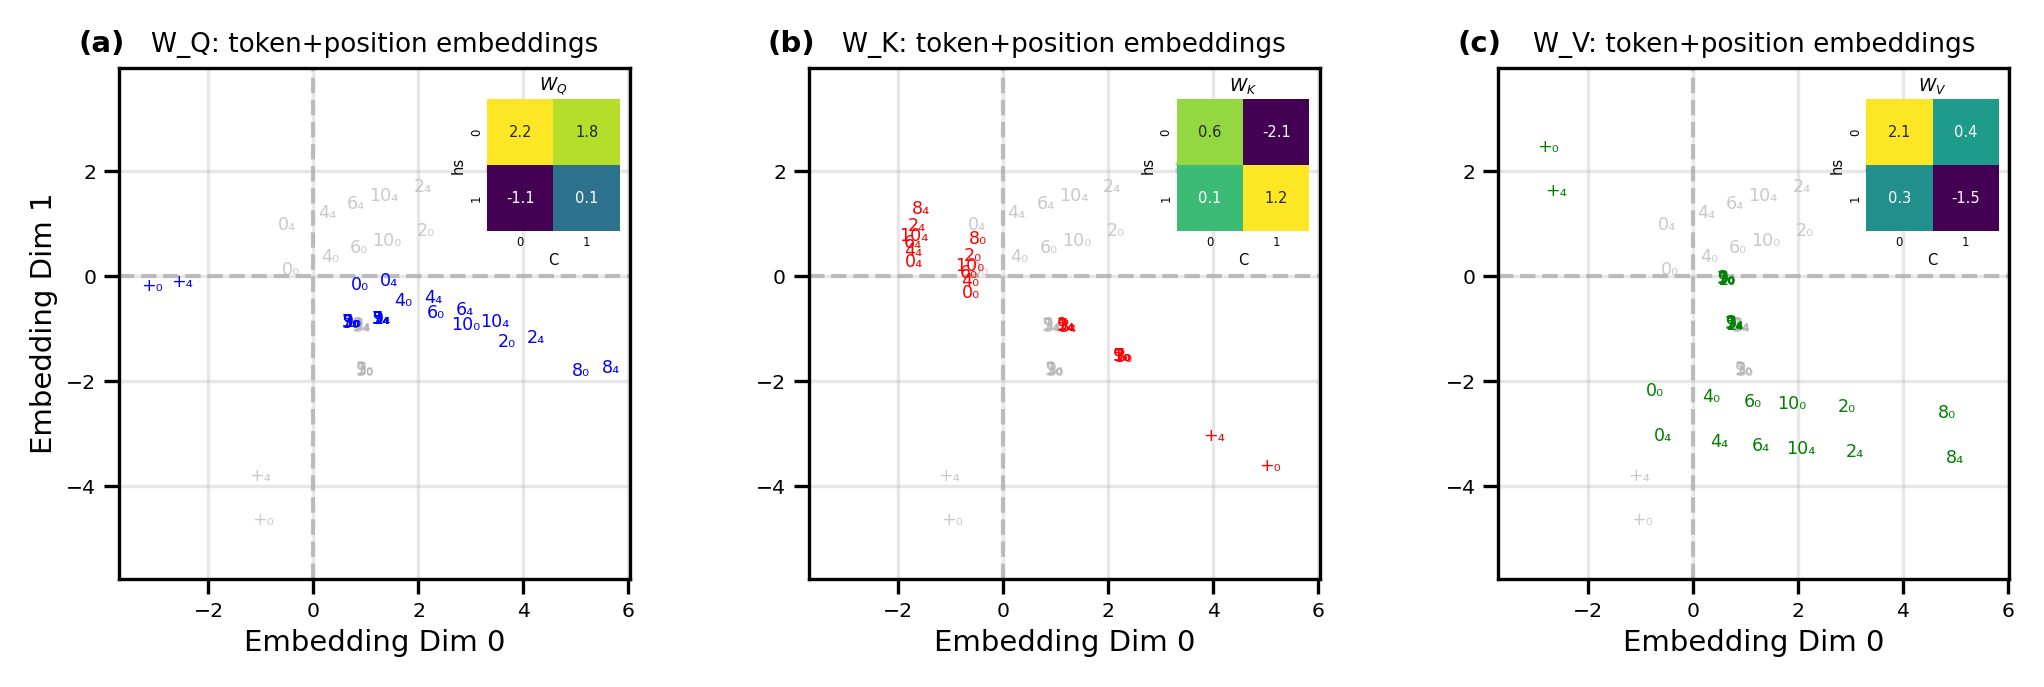
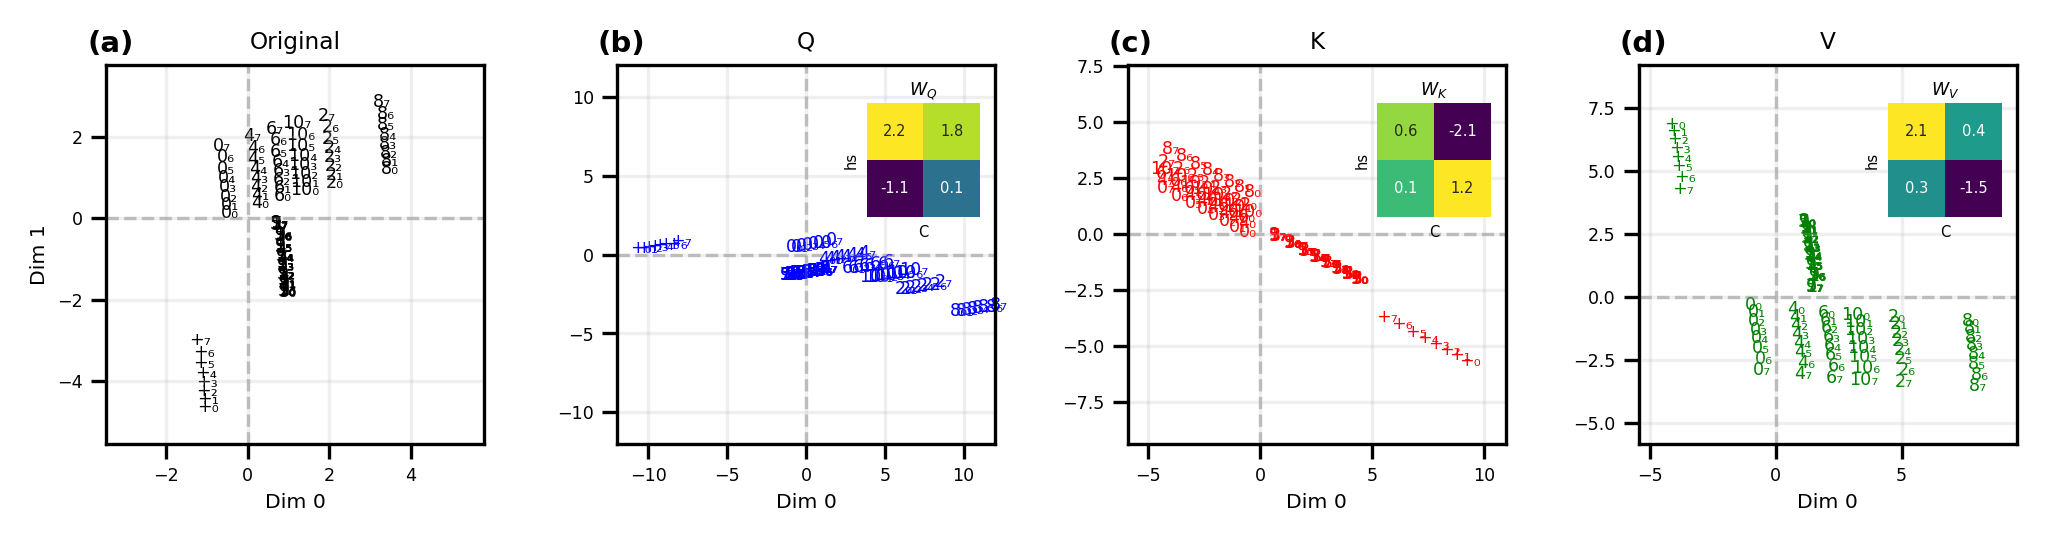
fig 8

diff --git a/plotting/plots.py b/plotting/plots.py
@@ -2426,89 +2426,73 @@ def plot_qkv_transformations(model, itos, save_path=None):
         ax.set_ylim(np.clip(ymin - ym, -max_range, max_range), np.clip(ymax + ym, -max_range, max_range))
     
     # Create figure
-    # Journal: 1 row × 3 cols — each panel = same original embeddings (embedding space), gray annotations; weight as inset
-    # Standard: 2 rows × 4 cols (original layout with Tok+Pos in row 0 col 0, then weights + Q,K,V)
+    # Journal: 1 row × 4 cols — (a) original embeddings, (b) Q, (c) K, (d) V; weight as inset in b/c/d
+    # Standard: 2 rows × 4 cols (original layout)
     if _JOURNAL_MODE:
-        fig = plt.figure(figsize=(7.0, 3.2))
-        gs = GridSpec(1, 3, figure=fig, wspace=0.35, left=0.07, right=0.97, top=0.88, bottom=0.14)
+        fig = plt.figure(figsize=(7.0, 3.6))
+        gs = GridSpec(1, 4, figure=fig, wspace=0.35, left=0.06, right=0.97, top=0.88, bottom=0.14)
     else:
         fig = plt.figure(figsize=(20, 10))
         gs = GridSpec(2, 4, figure=fig, hspace=0.35, wspace=0.3)
     
     _lbl_fs = 6 if _JOURNAL_MODE else 9
-    _step = 4 if _JOURNAL_MODE and num_combinations > 48 else 1
-    _step_1d = _step
     _pe = [pe.withStroke(linewidth=2, foreground='white')] if _JOURNAL_MODE else []
     _panel_fs = 10 if _JOURNAL_MODE else 12
     x_labels = list(range(n_embd))
     y_labels_local = list(range(head_size))
 
-    # Journal: single row of 3 panels; each has (1) SAME original embeddings in light gray (identical), (2) Q/K/V in blue/red/green
+    # Journal: 4 panels — original + Q + K + V, each in own space; weight inset in Q/K/V
     if _JOURNAL_MODE and n_embd >= 2 and head_size >= 2:
         X_orig = all_combinations[:, [0, 1]]
         Q_2d = Q_transformed[:, [0, 1]]
         K_2d = K_transformed[:, [0, 1]]
         V_2d = V_transformed[:, [0, 1]]
-        _emb_lo = X_orig.min(axis=0) - 0.15 * (X_orig.max(axis=0) - X_orig.min(axis=0))
-        _emb_hi = X_orig.max(axis=0) + 0.15 * (X_orig.max(axis=0) - X_orig.min(axis=0))
-        # Make limits square so panels are square with equal aspect
-        _cx = 0.5 * (_emb_lo[0] + _emb_hi[0])
-        _cy = 0.5 * (_emb_lo[1] + _emb_hi[1])
-        _half = 0.5 * max(_emb_hi[0] - _emb_lo[0], _emb_hi[1] - _emb_lo[1])
-        _xlo_emb, _xhi_emb = np.clip(_cx - _half, -8, 8), np.clip(_cx + _half, -8, 8)
-        _ylo_emb, _yhi_emb = np.clip(_cy - _half, -8, 8), np.clip(_cy + _half, -8, 8)
         _m = 0.12
-        def _lims(arr):
-            x, y = arr[:, 0], arr[:, 1]
-            s0, s1 = max(x.max() - x.min(), 0.5), max(y.max() - y.min(), 0.5)
-            return (np.clip(x.min() - _m * s0, -12, 12), np.clip(x.max() + _m * s0, -12, 12),
-                    np.clip(y.min() - _m * s1, -12, 12), np.clip(y.max() + _m * s1, -12, 12))
-        for col, (W, ttl_short, panel_label, ann_color, xyz_2d) in enumerate([
-            (W_Q, "W_Q", "(a)", "blue", Q_2d),
-            (W_K, "W_K", "(b)", "red", K_2d),
-            (W_V, "W_V", "(c)", "green", V_2d),
-        ]):
+        def _sq_lims(arr, max_r=12):
+            lo = arr.min(axis=0) - _m * np.maximum(arr.max(axis=0) - arr.min(axis=0), 0.5)
+            hi = arr.max(axis=0) + _m * np.maximum(arr.max(axis=0) - arr.min(axis=0), 0.5)
+            cx = 0.5 * (lo[0] + hi[0])
+            cy = 0.5 * (lo[1] + hi[1])
+            half = 0.5 * max(hi[0] - lo[0], hi[1] - lo[1])
+            return (np.clip(cx - half, -max_r, max_r), np.clip(cx + half, -max_r, max_r),
+                    np.clip(cy - half, -max_r, max_r), np.clip(cy + half, -max_r, max_r))
+        _panels = [
+            (None, "Original", "(a)", "black", X_orig),
+            (W_Q, "Q", "(b)", "blue", Q_2d),
+            (W_K, "K", "(c)", "red", K_2d),
+            (W_V, "V", "(d)", "green", V_2d),
+        ]
+        for col, (W, ttl, panel_label, ann_color, pts) in enumerate(_panels):
             ax = fig.add_subplot(gs[0, col])
-            ax.set_xlim(_xlo_emb, _xhi_emb)
-            ax.set_ylim(_ylo_emb, _yhi_emb)
+            xl, xr, yl, yr = _sq_lims(pts, max_r=8 if W is None else 12)
+            ax.set_xlim(xl, xr)
+            ax.set_ylim(yl, yr)
             ax.set_aspect('equal', adjustable='box')
-            ax.set_xlabel("Embedding Dim 0")
-            ax.set_ylabel("Embedding Dim 1" if col == 0 else "")
-            ax.axhline(y=0, color='gray', linestyle='--', linewidth=1, alpha=0.5, zorder=0)
-            ax.axvline(x=0, color='gray', linestyle='--', linewidth=1, alpha=0.5, zorder=0)
-            ax.grid(True, alpha=0.3)
-            ax.set_title(f"{ttl_short}: token+position embeddings", fontsize=9)
-            ax.tick_params(axis='both', labelsize=7)
-            ax.text(-0.08, 1.02, panel_label, transform=ax.transAxes, fontsize=_panel_fs, fontweight='bold', va='bottom')
-            # Layer 1: original token+position embeddings — light gray, identical on all three panels
-            for i in range(0, len(labels), _step):
-                ax.text(X_orig[i, 0], X_orig[i, 1], labels[i], fontsize=_lbl_fs, ha='center', va='center',
-                        color='0.7', alpha=0.7, zorder=0)
-            # Layer 2: Q (panel 1) / K (panel 2) / V (panel 3) in blue/red/green — overlay in own coords
-            ax2 = ax.inset_axes([0, 0, 1, 1])
-            ax2.patch.set_visible(False)
-            xl, xr, yl, yr = _lims(xyz_2d)
-            ax2.set_xlim(xl, xr)
-            ax2.set_ylim(yl, yr)
-            ax2.set_aspect('equal', adjustable='box')
-            ax2.set_xticks([])
-            ax2.set_yticks([])
-            for spine in ax2.spines.values():
-                spine.set_visible(False)
-            for i in range(0, len(labels), _step):
-                ax2.text(xyz_2d[i, 0], xyz_2d[i, 1], labels[i], fontsize=_lbl_fs, ha='center', va='center',
+            ax.set_xlabel("Dim 0", fontsize=7)
+            ax.set_ylabel("Dim 1" if col == 0 else "", fontsize=7)
+            ax.axhline(y=0, color='gray', linestyle='--', linewidth=0.8, alpha=0.5, zorder=0)
+            ax.axvline(x=0, color='gray', linestyle='--', linewidth=0.8, alpha=0.5, zorder=0)
+            ax.grid(True, alpha=0.2)
+            ax.set_title(ttl, fontsize=8)
+            ax.tick_params(axis='both', labelsize=6)
+            ax.text(-0.05, 1.02, panel_label, transform=ax.transAxes, fontsize=_panel_fs, fontweight='bold', va='bottom')
+            for i in range(len(labels)):
+                ax.text(pts[i, 0], pts[i, 1], labels[i], fontsize=_lbl_fs, ha='center', va='center',
                         color=ann_color, zorder=1)
-            # Inset: weight heatmap, upper right
-            inset = ax.inset_axes([0.72, 0.68, 0.26, 0.26])
-            sns.heatmap(W, cmap="viridis", xticklabels=['0', '1'], yticklabels=['0', '1'], cbar=False,
-                        ax=inset, annot=True, fmt='.1f', annot_kws={'size': 5})
-            for t in inset.texts:
-                t.set_backgroundcolor('none')
-            _sub = ttl_short.split("_")[-1]
-            inset.set_title(rf"$W_{{{_sub}}}$", fontsize=6, pad=2)
-            inset.set_xlabel("C", fontsize=5, labelpad=1)
-            inset.set_ylabel("hs", fontsize=5, labelpad=1)
-            inset.tick_params(axis='both', which='both', length=0, labelsize=4, pad=1)
+            # Weight inset for Q/K/V panels: W_Q, W_K, W_V; axis labels C, hs only (no spines/ticks); moved down to clear panel title
+            if W is not None:
+                inset = ax.inset_axes([0.66, 0.6, 0.30, 0.30])
+                sns.heatmap(W, cmap="viridis", xticklabels=False, yticklabels=False, cbar=False,
+                            ax=inset, annot=True, fmt='.1f', annot_kws={'size': 5})
+                for t in inset.texts:
+                    t.set_backgroundcolor('none')
+                inset.set_title(rf"$W_{{{ttl}}}$", fontsize=6, pad=2)
+                inset.set_xlabel("C", fontsize=5)
+                inset.set_ylabel("hs", fontsize=5)
+                inset.set_xticks([])
+                inset.set_yticks([])
+                for spine in inset.spines.values():
+                    spine.set_visible(False)
     else:
         # Standard (non-journal) or 1D: keep original two-row layout
         if not _JOURNAL_MODE:
@@ -2516,7 +2500,7 @@ def plot_qkv_transformations(model, itos, save_path=None):
             if n_embd >= 2:
                 X_orig = all_combinations[:, [0, 1]]
                 ax0.scatter(X_orig[:, 0], X_orig[:, 1], s=0, alpha=0)
-                for i in range(0, len(labels), _step):
+                for i in range(len(labels)):
                     ax0.text(X_orig[i, 0], X_orig[i, 1], labels[i], fontsize=_lbl_fs, ha='center', va='center',
                              zorder=2, path_effects=_pe)
                 ax0.set_title(f"Original Token+Position Embeddings: Dim 0 vs Dim 1\n(All tokens, {num_combinations} combinations)", fontsize=12)
@@ -2530,7 +2514,7 @@ def plot_qkv_transformations(model, itos, save_path=None):
             else:
                 X_orig_1d = all_combinations[:, 0]
                 ax0.scatter(X_orig_1d, np.zeros_like(X_orig_1d), s=0, alpha=0)
-                for i in range(0, len(labels), _step_1d):
+                for i in range(len(labels)):
                     ax0.text(X_orig_1d[i], 0, labels[i], fontsize=9, ha='center', va='center', rotation=90)
                 ax0.set_title(f"Original Token+Position Embeddings: Dim 0\n(All tokens, {num_combinations} combinations)", fontsize=12)
                 ax0.set_xlabel("Embedding Dim 0")
@@ -2574,7 +2558,7 @@ def plot_qkv_transformations(model, itos, save_path=None):
         ax4 = fig.add_subplot(gs[_wr2, _wc2])
         if head_size >= 2:
             ax4.scatter(Q_2d[:, 0], Q_2d[:, 1], s=0, alpha=0)
-            for i in range(0, len(labels), _step):
+            for i in range(len(labels)):
                 ax4.text(Q_2d[i, 0], Q_2d[i, 1], labels[i], fontsize=_lbl_fs, ha='center', va='center',
                          color='blue', zorder=2, path_effects=_pe)
             ax4.set_title(f"Q-Transformed: Dim 0 vs Dim 1\n(All tokens, {num_combinations} combinations)", fontsize=12)
@@ -2589,7 +2573,7 @@ def plot_qkv_transformations(model, itos, save_path=None):
         else:
             Q_1d = Q_transformed[:, 0]
             ax4.scatter(Q_1d, np.zeros_like(Q_1d), s=0, alpha=0)
-            for i in range(0, len(labels), _step_1d):
+            for i in range(len(labels)):
                 ax4.text(Q_1d[i], 0, labels[i], fontsize=_lbl_fs, ha='center', va='center', rotation=90, color='blue')
             ax4.set_title(f"Q-Transformed: Dim 0\n(All tokens, {num_combinations} combinations)", fontsize=12)
             ax4.set_xlabel("Head Dim 0")
@@ -2599,7 +2583,7 @@ def plot_qkv_transformations(model, itos, save_path=None):
         ax5 = fig.add_subplot(gs[_wr2, _wc2 + 1])
         if head_size >= 2:
             ax5.scatter(K_2d[:, 0], K_2d[:, 1], s=0, alpha=0)
-            for i in range(0, len(labels), _step):
+            for i in range(len(labels)):
                 ax5.text(K_2d[i, 0], K_2d[i, 1], labels[i], fontsize=_lbl_fs, ha='center', va='center',
                          color='red', zorder=2, path_effects=_pe)
             ax5.set_title(f"K-Transformed: Dim 0 vs Dim 1\n(All tokens, {num_combinations} combinations)", fontsize=12)
@@ -2614,7 +2598,7 @@ def plot_qkv_transformations(model, itos, save_path=None):
         else:
             K_1d = K_transformed[:, 0]
             ax5.scatter(K_1d, np.zeros_like(K_1d), s=0, alpha=0)
-            for i in range(0, len(labels), _step_1d):
+            for i in range(len(labels)):
                 ax5.text(K_1d[i], 0, labels[i], fontsize=_lbl_fs, ha='center', va='center', rotation=90, color='red')
             ax5.set_title(f"K-Transformed: Dim 0\n(All tokens, {num_combinations} combinations)", fontsize=12)
             ax5.set_xlabel("Head Dim 0")
@@ -2625,7 +2609,7 @@ def plot_qkv_transformations(model, itos, save_path=None):
         v_color = 'green'
         if head_size >= 2:
             ax6.scatter(V_2d[:, 0], V_2d[:, 1], s=0, alpha=0)
-            for i in range(0, len(labels), _step):
+            for i in range(len(labels)):
                 ax6.text(V_2d[i, 0], V_2d[i, 1], labels[i], fontsize=_lbl_fs, ha='center', va='center',
                          color=v_color, zorder=2, path_effects=_pe)
             ax6.set_title(f"V-Transformed: Dim 0 vs Dim 1\n(All tokens, {num_combinations} combinations)", fontsize=12)
@@ -2642,7 +2626,7 @@ def plot_qkv_transformations(model, itos, save_path=None):
             margin = 0.15 * (V_1d.max() - V_1d.min())
             ax6.set_xlim(V_1d.min() - margin, V_1d.max() + margin)
             ax6.set_ylim(-0.5, 0.5)
-            for i in range(0, len(labels), _step_1d):
+            for i in range(len(labels)):
                 ax6.text(V_1d[i], 0, labels[i], fontsize=_lbl_fs, ha='center', va='center', color=v_color)
             ax6.set_title(f"V-Transformed: Dim 0\n(All tokens, {num_combinations} combinations)", fontsize=12)
             ax6.set_xlabel("Head Dim 0")
